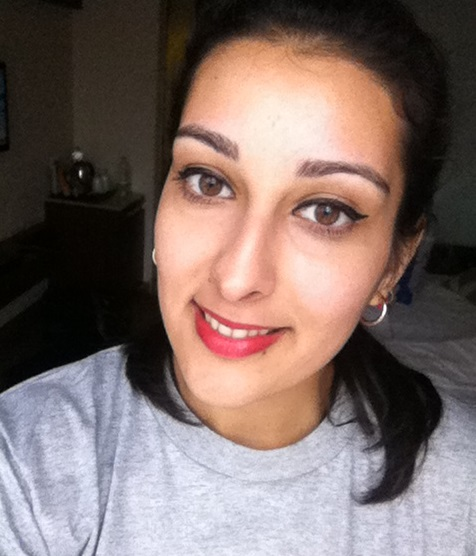
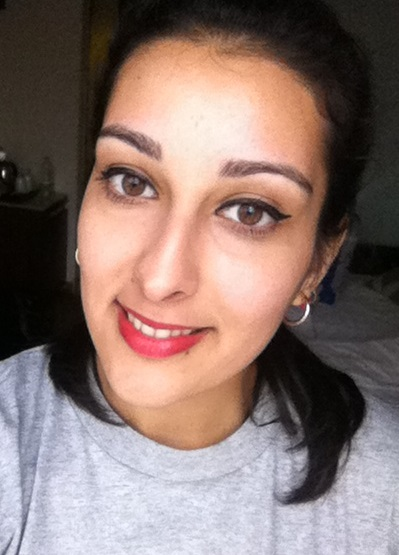
Added Furnisha photo
Added Furnisha photo

diff --git a/about-mlp.html b/about-mlp.html
@@ -91,7 +91,7 @@
 <div class="row">
 <div class="col-sm-4">
   <h2>Furnisha Lycett</h2>
-  <img src="Marley.jpg" alt="Furnisha Lycett" style="width:350px;height:300px;" class="img-circle">
+  <img src="Furnisha.jpg" alt="Furnisha Lycett" style="width:350px;height:300px;" class="img-circle">
 </div>
 <div class="col-sm-8">
   <p class= About>Born and bred Londoner, Furnisha is a Consultant currently working in the financial services sector. Having read Geography at university and having previously worked in the technology industry, Furnisha has a keen interest in the intersection between technology, the environment and people. Her interest in politics grew during her time at university where she was influenced by Pouneh's determination for change and her sharing of ideas. </p>
